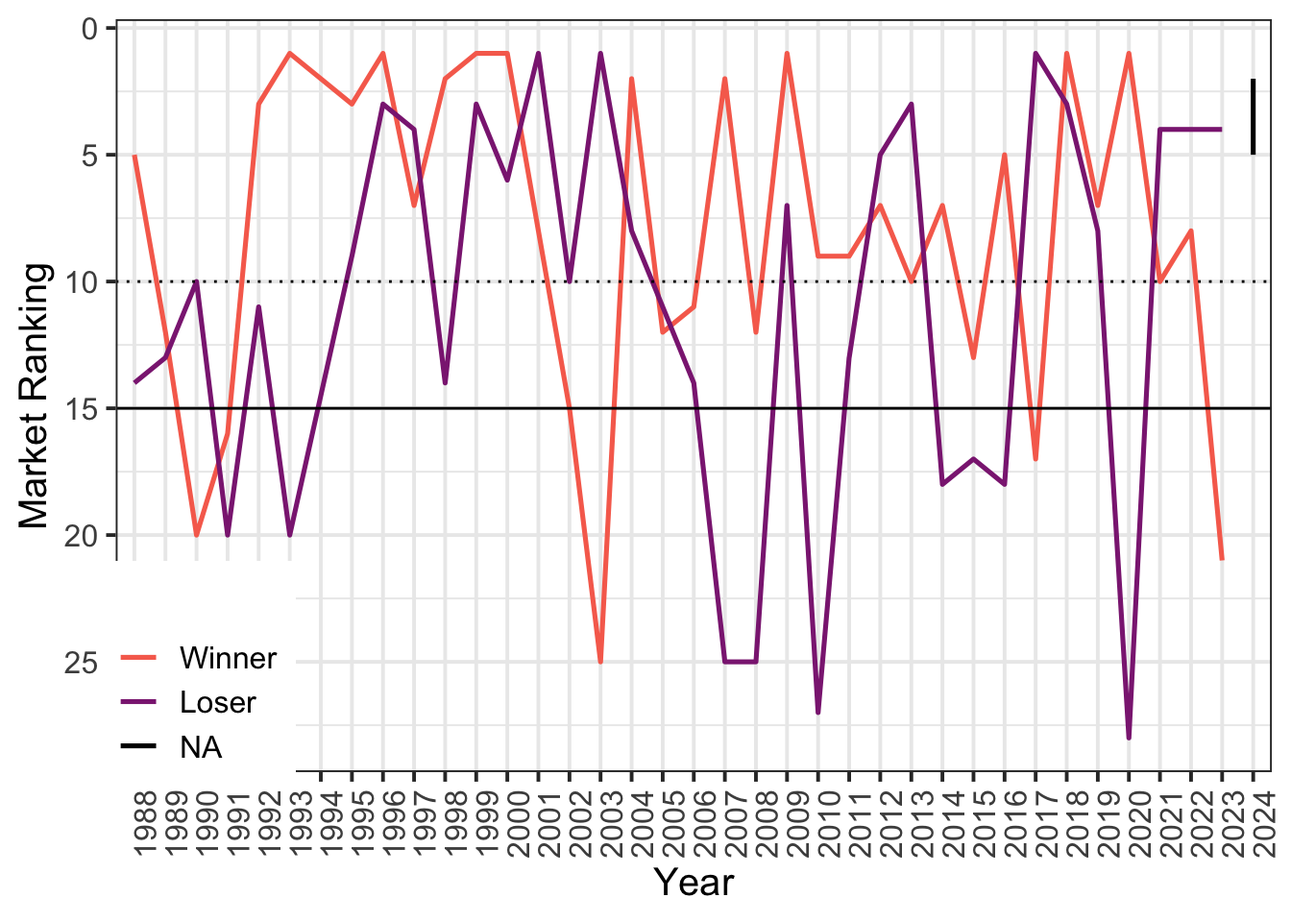
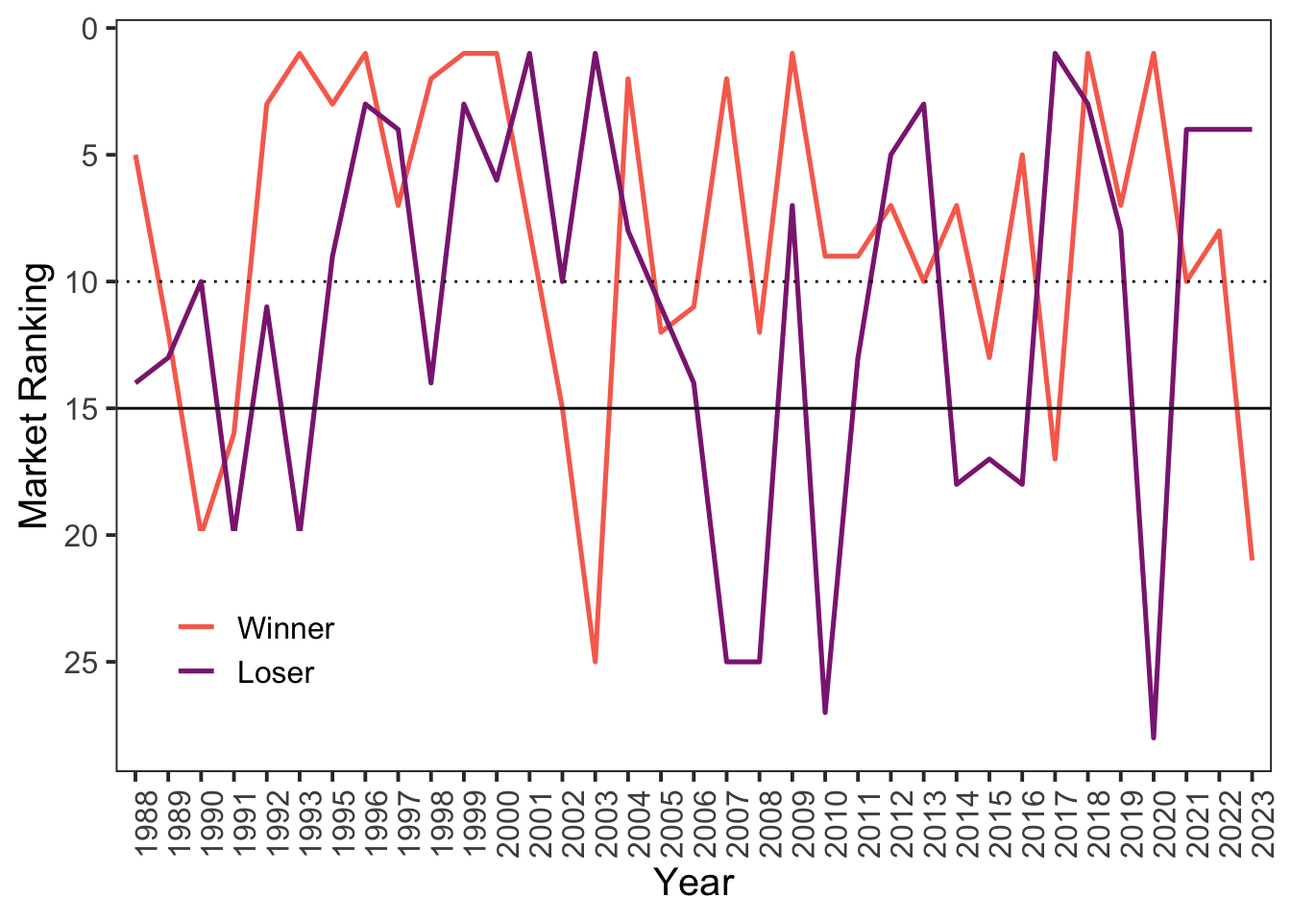
Built site for gh-pages

Changed region(s): [[0.0938, 0.0312, 1.0, 0.9375]]

diff --git a/posts/post-with-code/mlb-market-ranking/index.html b/posts/post-with-code/mlb-market-ranking/index.html
@@ -146,7 +146,6 @@ gtag('config', 'G-MGFSRVFVLF', { 'anonymize_ip': true});
       <h1 class="title">MLB - Market Ranking</h1>
                                 <div class="quarto-categories">
                 <div class="quarto-category">MLB</div>
-                <div class="quarto-category">Generalized Linear Model</div>
               </div>
                   </div>
   </div>
@@ -218,8 +217,8 @@ gtag('config', 'G-MGFSRVFVLF', { 'anonymize_ip': true});
 </div>
 <div class="cell">
 <div class="cell-output-display">
-<div class="plotly html-widget html-fill-item" id="htmlwidget-5ee12b014b6ac57d8e44" style="width:100%;height:464px;"></div>
-<script type="application/json" data-for="htmlwidget-5ee12b014b6ac57d8e44">{"x":{"data":[{"x":[1,2,3,4,5,6,8,9,10,11,12,13,14,15,16,17,18,19,20,21,22,23,24,25,26,27,28,29,30,31,32,33,34,35,36],"y":[-5,-12,-20,-16,-3,-1,-3,-1,-7,-2,-1,-1,-8,-15,-25,-2,-12,-11,-2,-12,-1,-9,-9,-7,-10,-7,-13,-5,-17,-1,-7,-1,-10,-8,-21],"text":["year: 1988<br />market_rank:  5<br />win_lose: Winner<br />win_lose: Winner","year: 1989<br />market_rank: 12<br />win_lose: Winner<br />win_lose: Winner","year: 1990<br />market_rank: 20<br />win_lose: Winner<br />win_lose: Winner","year: 1991<br />market_rank: 16<br />win_lose: Winner<br />win_lose: Winner","year: 1992<br />market_rank:  3<br />win_lose: Winner<br />win_lose: Winner","year: 1993<br />market_rank:  1<br />win_lose: Winner<br />win_lose: Winner","year: 1995<br />market_rank:  3<br />win_lose: Winner<br />win_lose: Winner","year: 1996<br />market_rank:  1<br />win_lose: Winner<br />win_lose: Winner","year: 1997<br />market_rank:  7<br />win_lose: Winner<br />win_lose: Winner","year: 1998<br />market_rank:  2<br />win_lose: Winner<br />win_lose: Winner","year: 1999<br />market_rank:  1<br />win_lose: Winner<br />win_lose: Winner","year: 2000<br />market_rank:  1<br />win_lose: Winner<br />win_lose: Winner","year: 2001<br />market_rank:  8<br />win_lose: Winner<br />win_lose: Winner","year: 2002<br />market_rank: 15<br />win_lose: Winner<br />win_lose: Winner","year: 2003<br />market_rank: 25<br />win_lose: Winner<br />win_lose: Winner","year: 2004<br />market_rank:  2<br />win_lose: Winner<br />win_lose: Winner","year: 2005<br />market_rank: 12<br />win_lose: Winner<br />win_lose: Winner","year: 2006<br />market_rank: 11<br />win_lose: Winner<br />win_lose: Winner","year: 2007<br />market_rank:  2<br />win_lose: Winner<br />win_lose: Winner","year: 2008<br />market_rank: 12<br />win_lose: Winner<br />win_lose: Winner","year: 2009<br />market_rank:  1<br />win_lose: Winner<br />win_lose: Winner","year: 2010<br />market_rank:  9<br />win_lose: Winner<br />win_lose: Winner","year: 2011<br />market_rank:  9<br />win_lose: Winner<br />win_lose: Winner","year: 2012<br />market_rank:  7<br />win_lose: Winner<br />win_lose: Winner","year: 2013<br />market_rank: 10<br />win_lose: Winner<br />win_lose: Winner","year: 2014<br />market_rank:  7<br />win_lose: Winner<br />win_lose: Winner","year: 2015<br />market_rank: 13<br />win_lose: Winner<br />win_lose: Winner","year: 2016<br />market_rank:  5<br />win_lose: Winner<br />win_lose: Winner","year: 2017<br />market_rank: 17<br />win_lose: Winner<br />win_lose: Winner","year: 2018<br />market_rank:  1<br />win_lose: Winner<br />win_lose: Winner","year: 2019<br />market_rank:  7<br />win_lose: Winner<br />win_lose: Winner","year: 2020<br />market_rank:  1<br />win_lose: Winner<br />win_lose: Winner","year: 2021<br />market_rank: 10<br />win_lose: Winner<br />win_lose: Winner","year: 2022<br />market_rank:  8<br />win_lose: Winner<br />win_lose: Winner","year: 2023<br />market_rank: 21<br />win_lose: Winner<br />win_lose: Winner"],"type":"scatter","mode":"lines","line":{"width":3.4015748031496069,"color":"rgba(247,111,92,1)","dash":"solid"},"hoveron":"points","name":"Winner","legendgroup":"Winner","showlegend":true,"xaxis":"x","yaxis":"y","hoverinfo":"text","frame":null},{"x":[1,2,3,4,5,6,8,9,10,11,12,13,14,15,16,17,18,19,20,21,22,23,24,25,26,27,28,29,30,31,32,33,34,35,36],"y":[-14,-13,-10,-20,-11,-20,-9,-3,-4,-14,-3,-6,-1,-10,-1,-8,-11,-14,-25,-25,-7,-27,-13,-5,-3,-18,-17,-18,-1,-3,-8,-28,-4,-4,-4],"text":["year: 1988<br />market_rank: 14<br />win_lose: Loser<br />win_lose: Loser","year: 1989<br />market_rank: 13<br />win_lose: Loser<br />win_lose: Loser","year: 1990<br />market_rank: 10<br />win_lose: Loser<br />win_lose: Loser","year: 1991<br />market_rank: 20<br />win_lose: Loser<br />win_lose: Loser","year: 1992<br />market_rank: 11<br />win_lose: Loser<br />win_lose: Loser","year: 1993<br />market_rank: 20<br />win_lose: Loser<br />win_lose: Loser","year: 1995<br />market_rank:  9<br />win_lose: Loser<br />win_lose: Loser","year: 1996<br />market_rank:  3<br />win_lose: Loser<br />win_lose: Loser","year: 1997<br />market_rank:  4<br />win_lose: Loser<br />win_lose: Loser","year: 1998<br />market_rank: 14<br />win_lose: Loser<br />win_lose: Loser","year: 1999<br />market_rank:  3<br />win_lose: Loser<br />win_lose: Loser","year: 2000<br />market_rank:  6<br />win_lose: Loser<br />win_lose: Loser","year: 2001<br />market_rank:  1<br />win_lose: Loser<br />win_lose: Loser","year: 2002<br />market_rank: 10<br />win_lose: Loser<br />win_lose: Loser","year: 2003<br />market_rank:  1<br />win_lose: Loser<br />win_lose: Loser","year: 2004<br />market_rank:  8<br />win_lose: Loser<br />win_lose: Loser","year: 2005<br />market_rank: 11<br />win_lose: Loser<br />win_lose: Loser","year: 2006<br />market_rank: 14<br />win_lose: Loser<br />win_lose: Loser","year: 2007<br />market_rank: 25<br />win_lose: Loser<br />win_lose: Loser","year: 2008<br />market_rank: 25<br />win_lose: Loser<br />win_lose: Loser","year: 2009<br />market_rank:  7<br />win_lose: Loser<br />win_lose: Loser","year: 2010<br />market_rank: 27<br />win_lose: Loser<br />win_lose: Loser","year: 2011<br />market_rank: 13<br />win_lose: Loser<br />win_lose: Loser","year: 2012<br />market_rank:  5<br />win_lose: Loser<br />win_lose: Loser","year: 2013<br />market_rank:  3<br />win_lose: Loser<br />win_lose: Loser","year: 2014<br />market_rank: 18<br />win_lose: Loser<br />win_lose: Loser","year: 2015<br />market_rank: 17<br />win_lose: Loser<br />win_lose: Loser","year: 2016<br />market_rank: 18<br />win_lose: Loser<br />win_lose: Loser","year: 2017<br />market_rank:  1<br />win_lose: Loser<br />win_lose: Loser","year: 2018<br />market_rank:  3<br />win_lose: Loser<br />win_lose: Loser","year: 2019<br />market_rank:  8<br />win_lose: Loser<br />win_lose: Loser","year: 2020<br />market_rank: 28<br />win_lose: Loser<br />win_lose: Loser","year: 2021<br />market_rank:  4<br />win_lose: Loser<br />win_lose: Loser","year: 2022<br />market_rank:  4<br />win_lose: Loser<br />win_lose: Loser","year: 2023<br />market_rank:  4<br />win_lose: Loser<br />win_lose: Loser"],"type":"scatter","mode":"lines","line":{"width":3.4015748031496069,"color":"rgba(140,41,129,1)","dash":"solid"},"hoveron":"points","name":"Loser","legendgroup":"Loser","showlegend":true,"xaxis":"x","yaxis":"y","hoverinfo":"text","frame":null},{"x":[7,7,37,37],"y":[null,null,-2,-5],"text":["year: 1994<br />market_rank: NA<br />win_lose: NA<br />win_lose: NA","year: 1994<br />market_rank: NA<br />win_lose: NA<br />win_lose: NA","year: 2024<br />market_rank:  2<br />win_lose: NA<br />win_lose: NA","year: 2024<br />market_rank:  5<br />win_lose: NA<br />win_lose: NA"],"type":"scatter","mode":"lines","line":{"width":3.4015748031496069,"color":"rgba(0,0,0,1)","dash":"solid"},"hoveron":"points","name":"NA","legendgroup":"NA","showlegend":true,"xaxis":"x","yaxis":"y","hoverinfo":"text","frame":null},{"x":[0.40000000000000002,37.600000000000001],"y":[-10,-10],"text":"","type":"scatter","mode":"lines","line":{"width":1.8897637795275593,"color":"rgba(0,0,0,1)","dash":"dot"},"hoveron":"points","showlegend":false,"xaxis":"x","yaxis":"y","hoverinfo":"text","frame":null},{"x":[0.40000000000000002,37.600000000000001],"y":[-15,-15],"text":"","type":"scatter","mode":"lines","line":{"width":1.8897637795275593,"color":"rgba(0,0,0,1)","dash":"solid"},"hoveron":"points","showlegend":false,"xaxis":"x","yaxis":"y","hoverinfo":"text","frame":null}],"layout":{"margin":{"t":29.947696139476964,"r":9.9626400996264035,"b":70.73474470734746,"l":50.809464508094649},"plot_bgcolor":"rgba(255,255,255,1)","paper_bgcolor":"rgba(255,255,255,1)","font":{"color":"rgba(0,0,0,1)","family":"","size":19.925280199252807},"xaxis":{"domain":[0,1],"automargin":true,"type":"linear","autorange":false,"range":[0.40000000000000002,37.600000000000001],"tickmode":"array","ticktext":["1988","1989","1990","1991","1992","1993","1994","1995","1996","1997","1998","1999","2000","2001","2002","2003","2004","2005","2006","2007","2008","2009","2010","2011","2012","2013","2014","2015","2016","2017","2018","2019","2020","2021","2022","2023","2024"],"tickvals":[1,2,3,4,5,6,7,8,9,10,11,12,13,14,15.000000000000002,16,17,18,19,20,21,22,23,24,25,26,27,28,29,30,31,32.000000000000007,33,34,35,36,37],"categoryorder":"array","categoryarray":["1988","1989","1990","1991","1992","1993","1994","1995","1996","1997","1998","1999","2000","2001","2002","2003","2004","2005","2006","2007","2008","2009","2010","2011","2012","2013","2014","2015","2016","2017","2018","2019","2020","2021","2022","2023","2024"],"nticks":null,"ticks":"outside","tickcolor":"rgba(51,51,51,1)","ticklen":4.9813200498132018,"tickwidth":0.90569455451149117,"showticklabels":true,"tickfont":{"color":"rgba(77,77,77,1)","family":"","size":15.940224159402241},"tickangle":-90,"showline":false,"linecolor":null,"linewidth":0,"showgrid":true,"gridcolor":"rgba(235,235,235,1)","gridwidth":0.90569455451149117,"zeroline":false,"anchor":"y","title":{"text":"Year","font":{"color":"rgba(0,0,0,1)","family":"","size":19.925280199252807}},"hoverformat":".2f"},"yaxis":{"domain":[0,1],"automargin":true,"type":"linear","autorange":false,"range":[-29.350000000000001,0.35000000000000009],"tickmode":"array","ticktext":["25","20","15","10","5","0"],"tickvals":[-25,-20,-15,-10,-5,0],"categoryorder":"array","categoryarray":["25","20","15","10","5","0"],"nticks":null,"ticks":"outside","tickcolor":"rgba(51,51,51,1)","ticklen":4.9813200498132018,"tickwidth":0.90569455451149117,"showticklabels":true,"tickfont":{"color":"rgba(77,77,77,1)","family":"","size":15.940224159402243},"tickangle":-0,"showline":false,"linecolor":null,"linewidth":0,"showgrid":true,"gridcolor":"rgba(235,235,235,1)","gridwidth":0.90569455451149117,"zeroline":false,"anchor":"x","title":{"text":"Market Ranking","font":{"color":"rgba(0,0,0,1)","family":"","size":19.925280199252807}},"hoverformat":".2f"},"shapes":[{"type":"rect","fillcolor":"transparent","line":{"color":"rgba(51,51,51,1)","width":0.90569455451149117,"linetype":"solid"},"yref":"paper","xref":"paper","x0":0,"x1":1,"y0":0,"y1":1}],"showlegend":true,"legend":{"bgcolor":"rgba(255,255,255,1)","bordercolor":"transparent","borderwidth":2.5769506084466713,"font":{"color":"rgba(0,0,0,1)","family":"","size":15.940224159402241},"title":{"text":"","font":{"color":"rgba(0,0,0,1)","family":"","size":19.925280199252807}}},"hovermode":"closest","barmode":"relative","hoverlabel":{"bgcolor":"white","font":{"size":12}}},"config":{"doubleClick":"reset","modeBarButtonsToAdd":["hoverclosest","hovercompare"],"showSendToCloud":false},"source":"A","attrs":{"387328aa49d3":{"x":{},"y":{},"colour":{},"type":"scatter"},"387343d4d080":{"yintercept":{}},"387348c4a64a":{"yintercept":{}}},"cur_data":"387328aa49d3","visdat":{"387328aa49d3":["function (y) ","x"],"387343d4d080":["function (y) ","x"],"387348c4a64a":["function (y) ","x"]},"highlight":{"on":"plotly_click","persistent":false,"dynamic":false,"selectize":false,"opacityDim":0.20000000000000001,"selected":{"opacity":1},"debounce":0},"shinyEvents":["plotly_hover","plotly_click","plotly_selected","plotly_relayout","plotly_brushed","plotly_brushing","plotly_clickannotation","plotly_doubleclick","plotly_deselect","plotly_afterplot","plotly_sunburstclick"],"base_url":"https://plot.ly"},"evals":[],"jsHooks":{"render":[{"code":"\n    function(el, x) {\n      var tooltip = el.querySelectorAll('.hovertext');\n      tooltip.forEach(function(d) {\n        d.textContent = d.textContent.replace('market_rank:', 'Market Rank:');\n      });\n    }\n  # ","data":null}]}}</script>
+<div class="plotly html-widget html-fill-item" id="htmlwidget-0acbec52342c6eb84df3" style="width:100%;height:464px;"></div>
+<script type="application/json" data-for="htmlwidget-0acbec52342c6eb84df3">{"x":{"data":[{"x":[1,2,3,4,5,6,7,8,9,10,11,12,13,14,15,16,17,18,19,20,21,22,23,24,25,26,27,28,29,30,31,32,33,34,35],"y":[-5,-12,-20,-16,-3,-1,-3,-1,-7,-2,-1,-1,-8,-15,-25,-2,-12,-11,-2,-12,-1,-9,-9,-7,-10,-7,-13,-5,-17,-1,-7,-1,-10,-8,-21],"text":["year: 1988<br />market_rank:  5<br />win_lose: Winner<br />win_lose: Winner","year: 1989<br />market_rank: 12<br />win_lose: Winner<br />win_lose: Winner","year: 1990<br />market_rank: 20<br />win_lose: Winner<br />win_lose: Winner","year: 1991<br />market_rank: 16<br />win_lose: Winner<br />win_lose: Winner","year: 1992<br />market_rank:  3<br />win_lose: Winner<br />win_lose: Winner","year: 1993<br />market_rank:  1<br />win_lose: Winner<br />win_lose: Winner","year: 1995<br />market_rank:  3<br />win_lose: Winner<br />win_lose: Winner","year: 1996<br />market_rank:  1<br />win_lose: Winner<br />win_lose: Winner","year: 1997<br />market_rank:  7<br />win_lose: Winner<br />win_lose: Winner","year: 1998<br />market_rank:  2<br />win_lose: Winner<br />win_lose: Winner","year: 1999<br />market_rank:  1<br />win_lose: Winner<br />win_lose: Winner","year: 2000<br />market_rank:  1<br />win_lose: Winner<br />win_lose: Winner","year: 2001<br />market_rank:  8<br />win_lose: Winner<br />win_lose: Winner","year: 2002<br />market_rank: 15<br />win_lose: Winner<br />win_lose: Winner","year: 2003<br />market_rank: 25<br />win_lose: Winner<br />win_lose: Winner","year: 2004<br />market_rank:  2<br />win_lose: Winner<br />win_lose: Winner","year: 2005<br />market_rank: 12<br />win_lose: Winner<br />win_lose: Winner","year: 2006<br />market_rank: 11<br />win_lose: Winner<br />win_lose: Winner","year: 2007<br />market_rank:  2<br />win_lose: Winner<br />win_lose: Winner","year: 2008<br />market_rank: 12<br />win_lose: Winner<br />win_lose: Winner","year: 2009<br />market_rank:  1<br />win_lose: Winner<br />win_lose: Winner","year: 2010<br />market_rank:  9<br />win_lose: Winner<br />win_lose: Winner","year: 2011<br />market_rank:  9<br />win_lose: Winner<br />win_lose: Winner","year: 2012<br />market_rank:  7<br />win_lose: Winner<br />win_lose: Winner","year: 2013<br />market_rank: 10<br />win_lose: Winner<br />win_lose: Winner","year: 2014<br />market_rank:  7<br />win_lose: Winner<br />win_lose: Winner","year: 2015<br />market_rank: 13<br />win_lose: Winner<br />win_lose: Winner","year: 2016<br />market_rank:  5<br />win_lose: Winner<br />win_lose: Winner","year: 2017<br />market_rank: 17<br />win_lose: Winner<br />win_lose: Winner","year: 2018<br />market_rank:  1<br />win_lose: Winner<br />win_lose: Winner","year: 2019<br />market_rank:  7<br />win_lose: Winner<br />win_lose: Winner","year: 2020<br />market_rank:  1<br />win_lose: Winner<br />win_lose: Winner","year: 2021<br />market_rank: 10<br />win_lose: Winner<br />win_lose: Winner","year: 2022<br />market_rank:  8<br />win_lose: Winner<br />win_lose: Winner","year: 2023<br />market_rank: 21<br />win_lose: Winner<br />win_lose: Winner"],"type":"scatter","mode":"lines","line":{"width":3.4015748031496069,"color":"rgba(247,111,92,1)","dash":"solid"},"hoveron":"points","name":"Winner","legendgroup":"Winner","showlegend":true,"xaxis":"x","yaxis":"y","hoverinfo":"text","frame":null},{"x":[1,2,3,4,5,6,7,8,9,10,11,12,13,14,15,16,17,18,19,20,21,22,23,24,25,26,27,28,29,30,31,32,33,34,35],"y":[-14,-13,-10,-20,-11,-20,-9,-3,-4,-14,-3,-6,-1,-10,-1,-8,-11,-14,-25,-25,-7,-27,-13,-5,-3,-18,-17,-18,-1,-3,-8,-28,-4,-4,-4],"text":["year: 1988<br />market_rank: 14<br />win_lose: Loser<br />win_lose: Loser","year: 1989<br />market_rank: 13<br />win_lose: Loser<br />win_lose: Loser","year: 1990<br />market_rank: 10<br />win_lose: Loser<br />win_lose: Loser","year: 1991<br />market_rank: 20<br />win_lose: Loser<br />win_lose: Loser","year: 1992<br />market_rank: 11<br />win_lose: Loser<br />win_lose: Loser","year: 1993<br />market_rank: 20<br />win_lose: Loser<br />win_lose: Loser","year: 1995<br />market_rank:  9<br />win_lose: Loser<br />win_lose: Loser","year: 1996<br />market_rank:  3<br />win_lose: Loser<br />win_lose: Loser","year: 1997<br />market_rank:  4<br />win_lose: Loser<br />win_lose: Loser","year: 1998<br />market_rank: 14<br />win_lose: Loser<br />win_lose: Loser","year: 1999<br />market_rank:  3<br />win_lose: Loser<br />win_lose: Loser","year: 2000<br />market_rank:  6<br />win_lose: Loser<br />win_lose: Loser","year: 2001<br />market_rank:  1<br />win_lose: Loser<br />win_lose: Loser","year: 2002<br />market_rank: 10<br />win_lose: Loser<br />win_lose: Loser","year: 2003<br />market_rank:  1<br />win_lose: Loser<br />win_lose: Loser","year: 2004<br />market_rank:  8<br />win_lose: Loser<br />win_lose: Loser","year: 2005<br />market_rank: 11<br />win_lose: Loser<br />win_lose: Loser","year: 2006<br />market_rank: 14<br />win_lose: Loser<br />win_lose: Loser","year: 2007<br />market_rank: 25<br />win_lose: Loser<br />win_lose: Loser","year: 2008<br />market_rank: 25<br />win_lose: Loser<br />win_lose: Loser","year: 2009<br />market_rank:  7<br />win_lose: Loser<br />win_lose: Loser","year: 2010<br />market_rank: 27<br />win_lose: Loser<br />win_lose: Loser","year: 2011<br />market_rank: 13<br />win_lose: Loser<br />win_lose: Loser","year: 2012<br />market_rank:  5<br />win_lose: Loser<br />win_lose: Loser","year: 2013<br />market_rank:  3<br />win_lose: Loser<br />win_lose: Loser","year: 2014<br />market_rank: 18<br />win_lose: Loser<br />win_lose: Loser","year: 2015<br />market_rank: 17<br />win_lose: Loser<br />win_lose: Loser","year: 2016<br />market_rank: 18<br />win_lose: Loser<br />win_lose: Loser","year: 2017<br />market_rank:  1<br />win_lose: Loser<br />win_lose: Loser","year: 2018<br />market_rank:  3<br />win_lose: Loser<br />win_lose: Loser","year: 2019<br />market_rank:  8<br />win_lose: Loser<br />win_lose: Loser","year: 2020<br />market_rank: 28<br />win_lose: Loser<br />win_lose: Loser","year: 2021<br />market_rank:  4<br />win_lose: Loser<br />win_lose: Loser","year: 2022<br />market_rank:  4<br />win_lose: Loser<br />win_lose: Loser","year: 2023<br />market_rank:  4<br />win_lose: Loser<br />win_lose: Loser"],"type":"scatter","mode":"lines","line":{"width":3.4015748031496069,"color":"rgba(140,41,129,1)","dash":"solid"},"hoveron":"points","name":"Loser","legendgroup":"Loser","showlegend":true,"xaxis":"x","yaxis":"y","hoverinfo":"text","frame":null},{"x":[0.40000000000000002,35.600000000000001],"y":[-10,-10],"text":"","type":"scatter","mode":"lines","line":{"width":1.8897637795275593,"color":"rgba(0,0,0,1)","dash":"dot"},"hoveron":"points","showlegend":false,"xaxis":"x","yaxis":"y","hoverinfo":"text","frame":null},{"x":[0.40000000000000002,35.600000000000001],"y":[-15,-15],"text":"","type":"scatter","mode":"lines","line":{"width":1.8897637795275593,"color":"rgba(0,0,0,1)","dash":"solid"},"hoveron":"points","showlegend":false,"xaxis":"x","yaxis":"y","hoverinfo":"text","frame":null}],"layout":{"margin":{"t":29.947696139476964,"r":9.9626400996264035,"b":70.73474470734746,"l":50.809464508094649},"plot_bgcolor":"rgba(255,255,255,1)","paper_bgcolor":"rgba(255,255,255,1)","font":{"color":"rgba(0,0,0,1)","family":"","size":19.925280199252807},"xaxis":{"domain":[0,1],"automargin":true,"type":"linear","autorange":false,"range":[0.40000000000000002,35.600000000000001],"tickmode":"array","ticktext":["1988","1989","1990","1991","1992","1993","1995","1996","1997","1998","1999","2000","2001","2002","2003","2004","2005","2006","2007","2008","2009","2010","2011","2012","2013","2014","2015","2016","2017","2018","2019","2020","2021","2022","2023"],"tickvals":[1,2,2.9999999999999996,4,5,6,7,8,9,10,11,12,13,14,15,16,17,18,19,20,21,22,23.000000000000004,24,25,26,27,28,29,29.999999999999996,31,32,33,34,35],"categoryorder":"array","categoryarray":["1988","1989","1990","1991","1992","1993","1995","1996","1997","1998","1999","2000","2001","2002","2003","2004","2005","2006","2007","2008","2009","2010","2011","2012","2013","2014","2015","2016","2017","2018","2019","2020","2021","2022","2023"],"nticks":null,"ticks":"outside","tickcolor":"rgba(51,51,51,1)","ticklen":4.9813200498132018,"tickwidth":0.90569455451149117,"showticklabels":true,"tickfont":{"color":"rgba(77,77,77,1)","family":"","size":15.940224159402241},"tickangle":-90,"showline":false,"linecolor":null,"linewidth":0,"showgrid":false,"gridcolor":null,"gridwidth":0,"zeroline":false,"anchor":"y","title":{"text":"Year","font":{"color":"rgba(0,0,0,1)","family":"","size":19.925280199252807}},"hoverformat":".2f"},"yaxis":{"domain":[0,1],"automargin":true,"type":"linear","autorange":false,"range":[-29.350000000000001,0.35000000000000009],"tickmode":"array","ticktext":["25","20","15","10","5","0"],"tickvals":[-25,-20,-15,-10,-5,0],"categoryorder":"array","categoryarray":["25","20","15","10","5","0"],"nticks":null,"ticks":"outside","tickcolor":"rgba(51,51,51,1)","ticklen":4.9813200498132018,"tickwidth":0.90569455451149117,"showticklabels":true,"tickfont":{"color":"rgba(77,77,77,1)","family":"","size":15.940224159402243},"tickangle":-0,"showline":false,"linecolor":null,"linewidth":0,"showgrid":false,"gridcolor":null,"gridwidth":0,"zeroline":false,"anchor":"x","title":{"text":"Market Ranking","font":{"color":"rgba(0,0,0,1)","family":"","size":19.925280199252807}},"hoverformat":".2f"},"shapes":[{"type":"rect","fillcolor":"transparent","line":{"color":"rgba(51,51,51,1)","width":0.90569455451149117,"linetype":"solid"},"yref":"paper","xref":"paper","x0":0,"x1":1,"y0":0,"y1":1}],"showlegend":true,"legend":{"bgcolor":"rgba(255,255,255,1)","bordercolor":"transparent","borderwidth":2.5769506084466713,"font":{"color":"rgba(0,0,0,1)","family":"","size":15.940224159402241},"title":{"text":"","font":{"color":"rgba(0,0,0,1)","family":"","size":19.925280199252807}}},"hovermode":"closest","barmode":"relative","hoverlabel":{"bgcolor":"white","font":{"size":12}}},"config":{"doubleClick":"reset","modeBarButtonsToAdd":["hoverclosest","hovercompare"],"showSendToCloud":false},"source":"A","attrs":{"3b9e3159885c":{"x":{},"y":{},"colour":{},"type":"scatter"},"3b9e6d076953":{"yintercept":{}},"3b9e1940011":{"yintercept":{}}},"cur_data":"3b9e3159885c","visdat":{"3b9e3159885c":["function (y) ","x"],"3b9e6d076953":["function (y) ","x"],"3b9e1940011":["function (y) ","x"]},"highlight":{"on":"plotly_click","persistent":false,"dynamic":false,"selectize":false,"opacityDim":0.20000000000000001,"selected":{"opacity":1},"debounce":0},"shinyEvents":["plotly_hover","plotly_click","plotly_selected","plotly_relayout","plotly_brushed","plotly_brushing","plotly_clickannotation","plotly_doubleclick","plotly_deselect","plotly_afterplot","plotly_sunburstclick"],"base_url":"https://plot.ly"},"evals":[],"jsHooks":{"render":[{"code":"\n    function(el, x) {\n      var tooltip = el.querySelectorAll('.hovertext');\n      tooltip.forEach(function(d) {\n        d.textContent = d.textContent.replace('market_rank:', 'Market Rank:');\n      });\n    }\n  # ","data":null}]}}</script>
 </div>
 </div>
 

diff --git a/index.html b/index.html
@@ -194,7 +194,7 @@ window.Quarto = {
 <!-- margin-sidebar -->
     <div id="quarto-margin-sidebar" class="sidebar margin-sidebar">
         
-    <h5 class="quarto-listing-category-title">Categories</h5><div class="quarto-listing-category category-default"><div class="category" data-category="">All <span class="quarto-category-count">(9)</span></div><div class="category" data-category="Acoustic Telemetry">Acoustic Telemetry <span class="quarto-category-count">(4)</span></div><div class="category" data-category="Bathymetry">Bathymetry <span class="quarto-category-count">(1)</span></div><div class="category" data-category="Food Webs">Food Webs <span class="quarto-category-count">(3)</span></div><div class="category" data-category="GLATOS">GLATOS <span class="quarto-category-count">(1)</span></div><div class="category" data-category="Generalized Additive Model">Generalized Additive Model <span class="quarto-category-count">(1)</span></div><div class="category" data-category="Generalized Linear Model">Generalized Linear Model <span class="quarto-category-count">(2)</span></div><div class="category" data-category="MLB">MLB <span class="quarto-category-count">(1)</span></div><div class="category" data-category="Movement">Movement <span class="quarto-category-count">(3)</span></div><div class="category" data-category="Spatial Analysis">Spatial Analysis <span class="quarto-category-count">(4)</span></div><div class="category" data-category="Stable Isotopes">Stable Isotopes <span class="quarto-category-count">(3)</span></div><div class="category" data-category="Trophic Dynamics">Trophic Dynamics <span class="quarto-category-count">(3)</span></div></div></div>
+    <h5 class="quarto-listing-category-title">Categories</h5><div class="quarto-listing-category category-default"><div class="category" data-category="">All <span class="quarto-category-count">(9)</span></div><div class="category" data-category="Acoustic Telemetry">Acoustic Telemetry <span class="quarto-category-count">(4)</span></div><div class="category" data-category="Bathymetry">Bathymetry <span class="quarto-category-count">(1)</span></div><div class="category" data-category="Food Webs">Food Webs <span class="quarto-category-count">(3)</span></div><div class="category" data-category="GLATOS">GLATOS <span class="quarto-category-count">(1)</span></div><div class="category" data-category="Generalized Additive Model">Generalized Additive Model <span class="quarto-category-count">(1)</span></div><div class="category" data-category="Generalized Linear Model">Generalized Linear Model <span class="quarto-category-count">(1)</span></div><div class="category" data-category="MLB">MLB <span class="quarto-category-count">(1)</span></div><div class="category" data-category="Movement">Movement <span class="quarto-category-count">(3)</span></div><div class="category" data-category="Spatial Analysis">Spatial Analysis <span class="quarto-category-count">(4)</span></div><div class="category" data-category="Stable Isotopes">Stable Isotopes <span class="quarto-category-count">(3)</span></div><div class="category" data-category="Trophic Dynamics">Trophic Dynamics <span class="quarto-category-count">(3)</span></div></div></div>
 <!-- main -->
 <main class="content quarto-banner-title-block column-page-left" id="quarto-document-content">
 
@@ -207,7 +207,7 @@ window.Quarto = {
 
 <div class="quarto-listing quarto-listing-container-default" id="listing-listing">
 <div class="list quarto-listing-default">
-<div class="quarto-post image-right" data-index="0" data-categories="MLB,Generalized Linear Model" data-listing-date-sort="1729641600000" data-listing-file-modified-sort="1729791533112" data-listing-date-modified-sort="NaN" data-listing-reading-time-sort="6" data-listing-word-count-sort="1123">
+<div class="quarto-post image-right" data-index="0" data-categories="MLB" data-listing-date-sort="1729641600000" data-listing-file-modified-sort="1729792006918" data-listing-date-modified-sort="NaN" data-listing-reading-time-sort="6" data-listing-word-count-sort="1140">
 <div class="thumbnail">
 <p><a href="./posts/post-with-code/mlb-market-ranking/index.html" class="no-external"></a></p><a href="./posts/post-with-code/mlb-market-ranking/index.html" class="no-external">
 <p><img loading="lazy" src="./posts/post-with-code/mlb-market-ranking/figure_1.png" class="thumbnail-image"></p>
@@ -223,9 +223,6 @@ window.Quarto = {
 <div class="listing-categories">
 <div class="listing-category" onclick="window.quartoListingCategory('MLB'); return false;">
 MLB
-</div>
-<div class="listing-category" onclick="window.quartoListingCategory('Generalized Linear Model'); return false;">
-Generalized Linear Model
 </div>
 </div>
 <div class="listing-description">
@@ -243,7 +240,7 @@ Benjamin L. Hlina
 </a>
 </div>
 </div>
-<div class="quarto-post image-right" data-index="1" data-categories="Stable Isotopes,Trophic Dynamics,Food Webs" data-listing-date-sort="1724889600000" data-listing-file-modified-sort="1729791533120" data-listing-date-modified-sort="NaN" data-listing-reading-time-sort="24" data-listing-word-count-sort="4669">
+<div class="quarto-post image-right" data-index="1" data-categories="Stable Isotopes,Trophic Dynamics,Food Webs" data-listing-date-sort="1724889600000" data-listing-file-modified-sort="1729792006926" data-listing-date-modified-sort="NaN" data-listing-reading-time-sort="24" data-listing-word-count-sort="4669">
 <div class="thumbnail">
 <p><a href="./posts/post-with-code/nichetools-siber/index.html" class="no-external"></a></p><a href="./posts/post-with-code/nichetools-siber/index.html" class="no-external">
 <p><img loading="lazy" src="./posts/post-with-code/nichetools-siber/SIBER_layman_ggplot.png" class="thumbnail-image"></p>
@@ -282,7 +279,7 @@ Benjamin L. Hlina
 </a>
 </div>
 </div>
-<div class="quarto-post image-right" data-index="2" data-categories="Stable Isotopes,Trophic Dynamics,Food Webs" data-listing-date-sort="1710460800000" data-listing-file-modified-sort="1729791533128" data-listing-date-modified-sort="NaN" data-listing-reading-time-sort="20" data-listing-word-count-sort="3969">
+<div class="quarto-post image-right" data-index="2" data-categories="Stable Isotopes,Trophic Dynamics,Food Webs" data-listing-date-sort="1710460800000" data-listing-file-modified-sort="1729792006930" data-listing-date-modified-sort="NaN" data-listing-reading-time-sort="20" data-listing-word-count-sort="3969">
 <div class="thumbnail">
 <p><a href="./posts/post-with-code/nichetools/index.html" class="no-external"></a></p><a href="./posts/post-with-code/nichetools/index.html" class="no-external">
 <p><img loading="lazy" src="./posts/post-with-code/nichetools/1_ellispes_density_biplot.png" class="thumbnail-image"></p>
@@ -321,7 +318,7 @@ Benjamin L. Hlina
 </a>
 </div>
 </div>
-<div class="quarto-post image-right" data-index="3" data-categories="Acoustic Telemetry,GLATOS,Generalized Linear Model" data-listing-date-sort="1709596800000" data-listing-file-modified-sort="1729791533108" data-listing-date-modified-sort="NaN" data-listing-reading-time-sort="19" data-listing-word-count-sort="3720">
+<div class="quarto-post image-right" data-index="3" data-categories="Acoustic Telemetry,GLATOS,Generalized Linear Model" data-listing-date-sort="1709596800000" data-listing-file-modified-sort="1729792006914" data-listing-date-modified-sort="NaN" data-listing-reading-time-sort="19" data-listing-word-count-sort="3720">
 <div class="thumbnail">
 <p><a href="./posts/post-with-code/detection-efficiency/index.html" class="no-external"></a></p><a href="./posts/post-with-code/detection-efficiency/index.html" class="no-external">
 <p><img loading="lazy" src="./posts/post-with-code/detection-efficiency/prelim_det_efficency.png" class="thumbnail-image"></p>
@@ -360,7 +357,7 @@ Benjamin L. Hlina
 </a>
 </div>
 </div>
-<div class="quarto-post image-right" data-index="4" data-categories="Spatial Analysis,Acoustic Telemetry,Movement" data-listing-date-sort="1701820800000" data-listing-file-modified-sort="1729791533112" data-listing-date-modified-sort="NaN" data-listing-reading-time-sort="8" data-listing-word-count-sort="1403">
+<div class="quarto-post image-right" data-index="4" data-categories="Spatial Analysis,Acoustic Telemetry,Movement" data-listing-date-sort="1701820800000" data-listing-file-modified-sort="1729792006914" data-listing-date-modified-sort="NaN" data-listing-reading-time-sort="8" data-listing-word-count-sort="1403">
 <div class="thumbnail">
 <p><a href="./posts/post-with-code/find-ts-bnd/index.html" class="no-external"></a></p><a href="./posts/post-with-code/find-ts-bnd/index.html" class="no-external">
 <p><img loading="lazy" src="./posts/post-with-code/find-ts-bnd/01_movement_outside_bnd.png" class="thumbnail-image"></p>
@@ -399,7 +396,7 @@ Benjamin L. Hlina
 </a>
 </div>
 </div>
-<div class="quarto-post image-right" data-index="5" data-categories="Generalized Additive Model,Spatial Analysis,Bathymetry" data-listing-date-sort="1699747200000" data-listing-file-modified-sort="1729791533128" data-listing-date-modified-sort="NaN" data-listing-reading-time-sort="17" data-listing-word-count-sort="3353">
+<div class="quarto-post image-right" data-index="5" data-categories="Generalized Additive Model,Spatial Analysis,Bathymetry" data-listing-date-sort="1699747200000" data-listing-file-modified-sort="1729792006934" data-listing-date-modified-sort="NaN" data-listing-reading-time-sort="17" data-listing-word-count-sort="3353">
 <div class="thumbnail">
 <p><a href="./posts/post-with-code/soapcheckr/index.html" class="no-external"></a></p><a href="./posts/post-with-code/soapcheckr/index.html" class="no-external">
 <p><img loading="lazy" src="./posts/post-with-code/soapcheckr/01_sissabagama_bathymetry_gam.png" class="thumbnail-image"></p>
@@ -438,7 +435,7 @@ Benjamin L. Hlina
 </a>
 </div>
 </div>
-<div class="quarto-post image-right" data-index="6" data-categories="Stable Isotopes,Trophic Dynamics,Food Webs" data-listing-date-sort="1691107200000" data-listing-file-modified-sort="1729791533120" data-listing-date-modified-sort="NaN" data-listing-reading-time-sort="26" data-listing-word-count-sort="5096">
+<div class="quarto-post image-right" data-index="6" data-categories="Stable Isotopes,Trophic Dynamics,Food Webs" data-listing-date-sort="1691107200000" data-listing-file-modified-sort="1729792006922" data-listing-date-modified-sort="NaN" data-listing-reading-time-sort="26" data-listing-word-count-sort="5096">
 <div class="thumbnail">
 <p><a href="./posts/post-with-code/nicheROVER-ggplot/nicheROVER_ggplot.html" class="no-external"></a></p><a href="./posts/post-with-code/nicheROVER-ggplot/nicheROVER_ggplot.html" class="no-external">
 <p><img loading="lazy" src="./posts/post-with-code/nicheROVER-ggplot/1_ellispes_density_biplot.png" class="thumbnail-image"></p>
@@ -477,7 +474,7 @@ Benjamin L. Hlina
 </a>
 </div>
 </div>
-<div class="quarto-post image-right" data-index="7" data-categories="Spatial Analysis,Acoustic Telemetry,Movement" data-listing-date-sort="1685232000000" data-listing-file-modified-sort="1729791533128" data-listing-date-modified-sort="NaN" data-listing-reading-time-sort="11" data-listing-word-count-sort="2101">
+<div class="quarto-post image-right" data-index="7" data-categories="Spatial Analysis,Acoustic Telemetry,Movement" data-listing-date-sort="1685232000000" data-listing-file-modified-sort="1729792006934" data-listing-date-modified-sort="NaN" data-listing-reading-time-sort="11" data-listing-word-count-sort="2101">
 <div class="thumbnail">
 <p><a href="./posts/post-with-code/shortest-path-pathroutr/shortest_path_example_pathroutr.html" class="no-external"></a></p><a href="./posts/post-with-code/shortest-path-pathroutr/shortest_path_example_pathroutr.html" class="no-external">
 <p><img loading="lazy" src="./posts/post-with-code/shortest-path-pathroutr/7_big_sissabagama_rerouted_paths.png" class="thumbnail-image"></p>
@@ -516,7 +513,7 @@ Benjamin L. Hlina
 </a>
 </div>
 </div>
-<div class="quarto-post image-right" data-index="8" data-categories="Spatial Analysis,Acoustic Telemetry,Movement" data-listing-date-sort="1685059200000" data-listing-file-modified-sort="1729791533128" data-listing-date-modified-sort="NaN" data-listing-reading-time-sort="9" data-listing-word-count-sort="1741">
+<div class="quarto-post image-right" data-index="8" data-categories="Spatial Analysis,Acoustic Telemetry,Movement" data-listing-date-sort="1685059200000" data-listing-file-modified-sort="1729792006930" data-listing-date-modified-sort="NaN" data-listing-reading-time-sort="9" data-listing-word-count-sort="1741">
 <div class="thumbnail">
 <p><a href="./posts/post-with-code/shortest-path-gidstance/shortest_path_example_gdistance.html" class="no-external"></a></p><a href="./posts/post-with-code/shortest-path-gidstance/shortest_path_example_gdistance.html" class="no-external">
 <p><img loading="lazy" src="./posts/post-with-code/shortest-path-gidstance/4_big_sissabagama_lake_cost_dist.png" class="thumbnail-image"></p>
